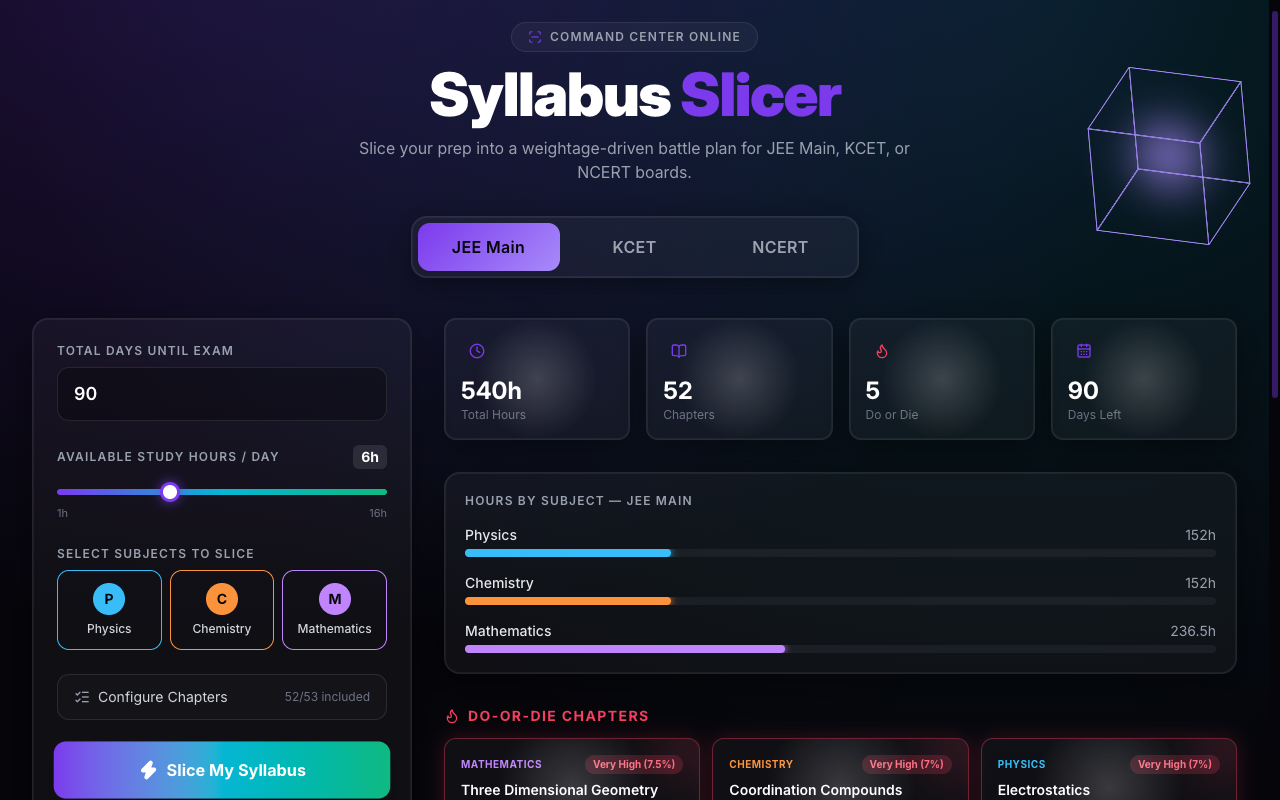
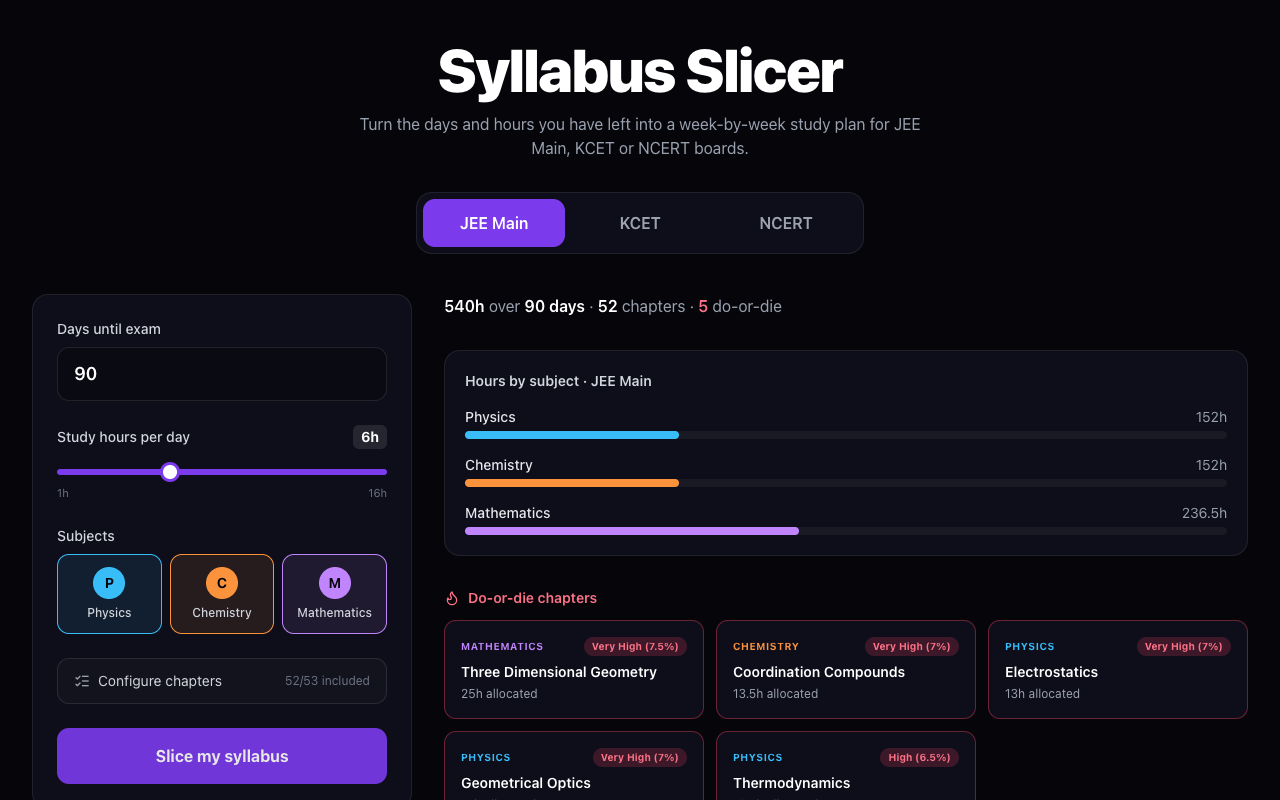
Rewrite README and update the screenshot

diff --git a/README.md b/README.md
@@ -1,25 +1,22 @@
 # Syllabus Slicer
 
-A small web tool that turns "I have N days and H hours a day" into a week-by-week study plan.
-You pick an exam (JEE Main, KCET, or an NCERT / board-level plan), the subjects you want to cover and
-how much time you have. It splits the total hours between subjects and chapters by weight, flags the
-highest-weight chapters as "Do or Die", and lays everything out as a timeline.
+A small web tool that turns "I have N days and H hours a day" into a week-by-week study plan for JEE Main, KCET or
+NCERT boards. It splits the hours between subjects and chapters by weight and marks the highest-weight chapters as
+"do or die". It runs entirely in the browser, with no backend, no account and no network calls after the page loads.
 
-Everything runs in the browser. There is no backend, no account and no network call after the page loads.
-
-**Try it live: https://saifcs50-cs50.github.io/syllabus-slicer/**
+Try it live: **https://saifcs50-cs50.github.io/syllabus-slicer/**
 
 ![Syllabus Slicer with a 90-day JEE Main plan](screenshot.png)
 
 ## What it does
 
-- **Three exam modes:** JEE Main (Physics, Chemistry, Maths), KCET (same three subjects) and an
-  NCERT / board mode that also offers Computer Science, English and Hindi.
-- **Inputs:** days until the exam, study hours per day (1 to 16, in half-hour steps) and which subjects to include.
-- **Output:** total hours, hours per subject, hours per chapter, a list of high-weight chapters, and a
-  week-by-week timeline. A chapter that doesn't fit in one week is split across weeks.
-- **Chapter configurator:** switch individual chapters in or out for each exam. Your choices are kept in
-  your browser's `localStorage` on your own device and are never sent anywhere.
+JEE Main and KCET cover Physics, Chemistry and Maths. The NCERT / board mode adds Computer Science, English and
+Hindi. You enter the days left and your hours per day (1 to 16, in half-hour steps), and the plan shows hours per
+subject and chapter, the high-weight chapters and a weekly timeline. A chapter that doesn't fit in one week is split
+across weeks.
+
+You can switch single chapters in or out for each exam. Those choices stay in your browser's `localStorage` and are
+never sent anywhere.
 
 ## How the plan is calculated
 
@@ -28,21 +25,22 @@ Everything runs in the browser. There is no backend, no account and no network c
 3. Inside a subject, each included chapter gets a share proportional to its chapter weight (minimum half an hour).
 4. Chapters are interleaved across subjects, highest weight first, and packed into weeks.
 
-The weights live in [`src/data/syllabus.ts`](src/data/syllabus.ts) and the maths in
+Labels such as "Very High (7.5%)" are computed from the same weights the planner uses, so a label can't drift
+away from its number. The weights live in [`src/data/syllabus.ts`](src/data/syllabus.ts) and the maths in
 [`src/lib/slicerEngine.ts`](src/lib/slicerEngine.ts).
 
-## Please read: the weights are rough
+## The weights are rough
 
-The chapter weights (roughly 0 to 10) and the per-subject paper weights are **hand-set estimates for planning**,
-not official figures from any exam body. In particular:
+The chapter weights (roughly 0 to 10) and the subject weights are my own estimates for planning. They are not
+official figures from any exam body.
 
-- The JEE Main split (35% Maths / 22.5% Physics / 22.5% Chemistry) is a deliberate bias towards Maths.
-  The real paper is roughly equal across the three subjects.
-- The Computer Science, English and Hindi chapter lists are generic groupings. Check them against the
-  syllabus of your own board and use the chapter configurator to adjust.
+- The JEE Main split (35% Maths, 22.5% Physics, 22.5% Chemistry) deliberately leans towards Maths. The real paper
+  is roughly equal across the three subjects.
+- The Computer Science, English and Hindi chapter lists are generic groupings. Check them against your own board's
+  syllabus and adjust them with the chapter list.
 - Chapter names follow the usual public syllabus headings. No textbook text is included.
 
-Treat the output as a starting point and edit the data file to match your own syllabus and priorities.
+Treat the plan as a starting point and edit the data file to fit your syllabus.
 
 ## Run it
 
